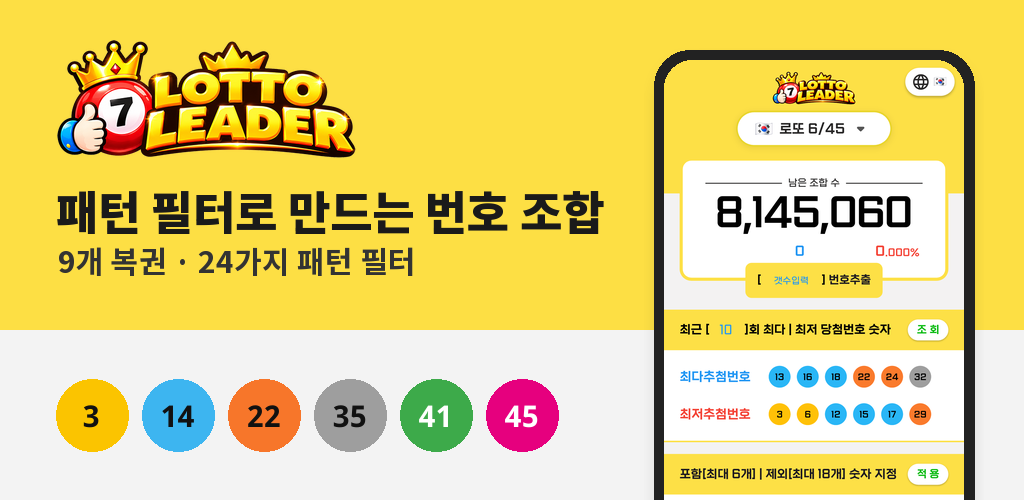
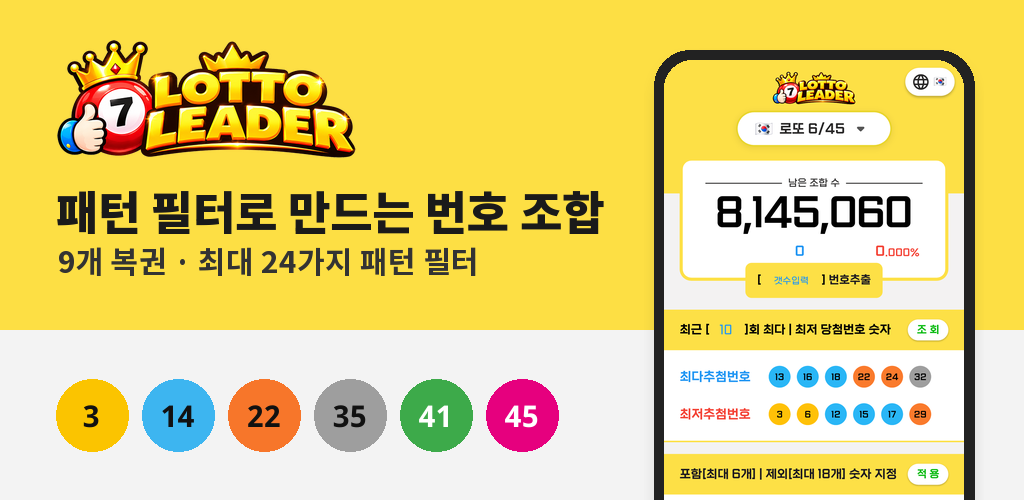
Play Console 입력 안내·테스터 안내 추가, 기능 그래픽 문구 '최대 24가지'로 수정

Changed region(s): [[0.1875, 0.48, 0.4688, 0.57]]

diff --git a/5_store_assets/Play_Console_입력_안내.md b/5_store_assets/Play_Console_입력_안내.md
@@ -1,0 +1,101 @@
+# Play Console 입력 안내 (순서대로)
+
+작성일: 2026-10-26 · 계정: 한지성 (jnhteamsoft@gmail.com, 개인 계정)
+
+> 본인 확인이 끝나야 "앱 만들기"가 열립니다. 끝나면 아래 순서대로 진행합니다.
+> 회색 상자 안 값은 그대로 복사해서 넣으면 됩니다.
+
+## 1. 앱 만들기
+
+| 칸 | 값 |
+|---|---|
+| 앱 이름 | `로또대장 - 로또 번호 생성기` (기본 언어 이름. 다른 언어 이름은 4번에서 추가) |
+| 기본 언어 | 한국어 – ko-KR |
+| 앱 또는 게임 | 앱 |
+| 무료 또는 유료 | 무료 (나중에 유료로 바꿀 수 없음) |
+| 선언 2개 | 개발자 프로그램 정책, 미국 수출법 — 내용을 읽고 직접 체크 |
+
+## 2. 앱 콘텐츠 (대시보드 → "앱 설정")
+
+| 항목 | 답 |
+|---|---|
+| 개인정보처리방침 | `https://jimichoi0409-wq.github.io/lotto-leader/privacy/` |
+| 앱 액세스 권한 | 모든 기능을 제한 없이 사용 가능 (로그인 없음) |
+| 광고 | 예, 광고 포함 |
+| 콘텐츠 등급 | `데이터보안_연령등급_안내.md` "연령 등급" 참고. 이메일은 jnhteamsoft@gmail.com, 카테고리는 "기타 앱"(게임 아님). 도박 관련 언급 질문은 사실대로 "예", 실제 돈 베팅·모의 도박은 "아니요" |
+| 타겟층 | 18세 이상만 선택 |
+| 데이터 보안 | `데이터보안_연령등급_안내.md` "Google Play 데이터 보안" 표 그대로 |
+| 광고 ID | 예 — 광고 목적 |
+| 정부 앱 | 아니요 |
+| 금융 기능 | 해당 없음 |
+| 건강 | 해당 없음 |
+| 뉴스 앱 | 아니요 |
+
+## 3. 스토어 설정
+
+| 항목 | 값 |
+|---|---|
+| 앱 카테고리 | 엔터테인먼트 |
+| 태그 | 최대 5개까지 고를 수 있음 — 목록에서 "도구"·"엔터테인먼트" 성격만 |
+| 이메일 | jnhteamsoft@gmail.com |
+| 웹사이트 | `https://jimichoi0409-wq.github.io/lotto-leader/` |
+| 전화번호 | 비워 둠 (선택 항목) |
+
+## 4. 기본 스토어 등록정보 (언어마다)
+
+"번역 관리 → 자체 번역 추가"로 en-US, es-ES, fr-FR, de-DE, ja-JP, vi-VN 을 추가하고 언어마다 넣습니다.
+
+| 칸 | 파일 |
+|---|---|
+| 앱 이름 / 간단한 설명 / 자세한 설명 | `스토어_등록_문구.md` 해당 언어 |
+| 앱 아이콘 (512×512) | `play_store_icon_512.png` |
+| 그래픽 이미지 (1024×500) | `feature_graphic/feature_<언어>.png` |
+| 휴대전화 스크린샷 (4장) | `screenshots/<언어>/01_main.png` ~ `04_stats.png` |
+
+스페인어·프랑스어는 같은 파일을 es-419(중남미), fr-CA(캐나다)에도 넣어도 됩니다.
+
+## 5. 비공개 테스트 (출시 전 필수: 테스터 12명 이상 × 14일 연속)
+
+1. 테스트 및 출시 → 테스트 → **비공개 테스트** → 트랙 만들기 (이름 예: `closed-beta`)
+2. **국가/지역**: 대한민국 (테스터가 있는 나라 모두)
+3. **테스터**: "이메일 목록 만들기" → 테스터 Gmail 주소 입력 (권장 15명 이상)
+   - 피드백 URL 또는 이메일: jnhteamsoft@gmail.com
+4. **새 버전 만들기** → `app-release.aab` 업로드
+   - 파일 위치: `1_app_flutter/lotto_app/build/app/outputs/bundle/release/app-release.aab`
+   - Play 앱 서명: "Google에서 앱 서명 키 관리"(기본값) 그대로
+   - 출시 노트: 아래 6번
+5. 검토 후 출시 → Google 검토(보통 며칠) → 통과하면 **테스터 참여 링크**가 생깁니다.
+6. 링크를 테스터에게 보내고 `비공개_테스트_참여_안내.md` 를 함께 전달합니다.
+7. 14일이 지나면 대시보드 → **프로덕션 액세스 신청** → 질문 3묶음 답변
+
+## 6. 출시 노트 (500자 이내)
+
+```
+<ko-KR>
+첫 테스트 버전입니다. 9개 복권 번호 조합, 패턴 필터, 당첨번호 확인과 통계를 써 보시고 불편한 점을 알려 주세요.
+</ko-KR>
+<en-US>
+First test release. Try number combinations for 9 lotteries, pattern filters, results and stats, and tell us what to improve.
+</en-US>
+<es-ES>
+Primera versión de prueba. Prueba combinaciones para 9 loterías, filtros, resultados y estadísticas, y cuéntanos qué mejorar.
+</es-ES>
+<fr-FR>
+Première version de test. Essayez les combinaisons pour 9 loteries, les filtres, les résultats et les statistiques, et dites-nous quoi améliorer.
+</fr-FR>
+<de-DE>
+Erste Testversion. Probieren Sie Kombinationen für 9 Lotterien, Filter, Ergebnisse und Statistiken aus und sagen Sie uns, was wir verbessern können.
+</de-DE>
+<ja-JP>
+最初のテスト版です。9種類のロトの番号組み合わせ、フィルター、当選結果と統計をお試しいただき、改善点をお知らせください。
+</ja-JP>
+<vi-VN>
+Bản thử nghiệm đầu tiên. Hãy thử tạo bộ số cho 9 loại xổ số, bộ lọc, kết quả và thống kê, rồi cho chúng tôi biết cần cải thiện gì.
+</vi-VN>
+```
+
+## 7. 확인해 둔 것 (2026-10-26)
+
+- 대상 API 36 (Android 16): 2026-08-31 부터 새 앱 필수 조건 충족
+- 버전: 1.0.0 (versionCode 1). 다음 업로드부터는 `pubspec.yaml` 의 `+1` 을 `+2`, `+3` … 으로 올려야 함
+- 권한 `FOREGROUND_SERVICE` 는 광고·백그라운드 작업 라이브러리(WorkManager) 기본값이고 실제 포그라운드 서비스 유형이 없어 별도 선언 대상 아님

diff --git a/5_store_assets/비공개_테스트_참여_안내.md b/5_store_assets/비공개_테스트_참여_안내.md
@@ -1,0 +1,26 @@
+# 로또대장 비공개 테스트 참여 안내 (테스터용)
+
+로또대장 앱 테스트에 참여해 주셔서 감사합니다. 정식 출시 전에 Google 규정상 **14일 동안** 테스트가 필요합니다.
+
+## 준비
+- Android 휴대폰
+- 운영자에게 알려 준 **Gmail 주소**로 휴대폰 Play 스토어에 로그인되어 있어야 합니다.
+
+## 참여 방법
+1. 운영자가 보낸 **테스트 참여 링크**를 엽니다.
+2. **"테스터 되기"** 를 누릅니다. 이 계정으로 로그인되어 있어야 합니다.
+3. 같은 화면의 **"Google Play에서 다운로드"** 를 눌러 앱을 설치합니다.
+   - 링크가 열리지 않으면 몇 분 뒤 다시 시도해 주세요.
+   - Play 스토어에서 "로또대장"을 검색하면 보이지 않을 수 있습니다. 반드시 링크로 들어가 주세요.
+
+## 꼭 지켜 주세요
+- **14일 동안 테스터에서 나가지 마세요.** 중간에 나갔다 다시 들어오면 날짜가 처음부터 다시 셉니다.
+- 앱은 지우지 말고 2~3일에 한 번 정도 열어 주세요.
+
+## 의견 보내기
+불편한 점, 오타, 오류가 있으면 아래로 알려 주세요.
+- 이메일: jnhteamsoft@gmail.com
+- 또는 Play 스토어 앱 화면의 "비공개 의견 보내기"
+
+## 알아 두세요
+이 앱은 번호 조합을 만들어 주는 참고용 도구입니다. 복권 구매나 당첨을 보장하지 않으며, 모든 번호 조합의 당첨 확률은 같습니다.

diff --git a/README_정리안내.md b/README_정리안내.md
@@ -521,3 +521,11 @@ python collect_draws.py --import eurojackpot 받은파일.csv   # 열: draw_date
 - 업로드 키: `C:/Users/review/LottoLeader_Keys/upload-keystore.jks` (별칭 upload). 비밀번호는 `android/key.properties` 에만 있음, GitHub 제외.
   SHA-256 지문 7F:1F:64:10:…:95:15. 백업 안내는 키 폴더의 `README_꼭_읽기.txt`.
 - `flutter build appbundle --release` → `build/app/outputs/bundle/release/app-release.aab` (업로드 키 서명 확인).
+
+## Play 출시 준비 문서 (2026-10-26)
+
+- 계정 상태: 기기 확인 완료, 본인 확인 Google 검토 중, 연락처 전화 인증은 본인 확인 후 진행. 본인 확인 전에는 "앱 만들기" 불가.
+- `5_store_assets/Play_Console_입력_안내.md`: 앱 만들기 → 앱 콘텐츠 → 스토어 설정 → 등록정보 → 비공개 테스트 순서별 입력값, 7개 언어 출시 노트.
+- `5_store_assets/비공개_테스트_참여_안내.md`: 테스터에게 보낼 참여 방법.
+- 기능 그래픽 문구를 "최대 24가지"로 수정 (한국 로또는 19가지라 스토어 문구와 맞춤).
+- 점검: 대상 API 36 충족, FOREGROUND_SERVICE 권한은 라이브러리 기본값으로 별도 선언 불필요.
